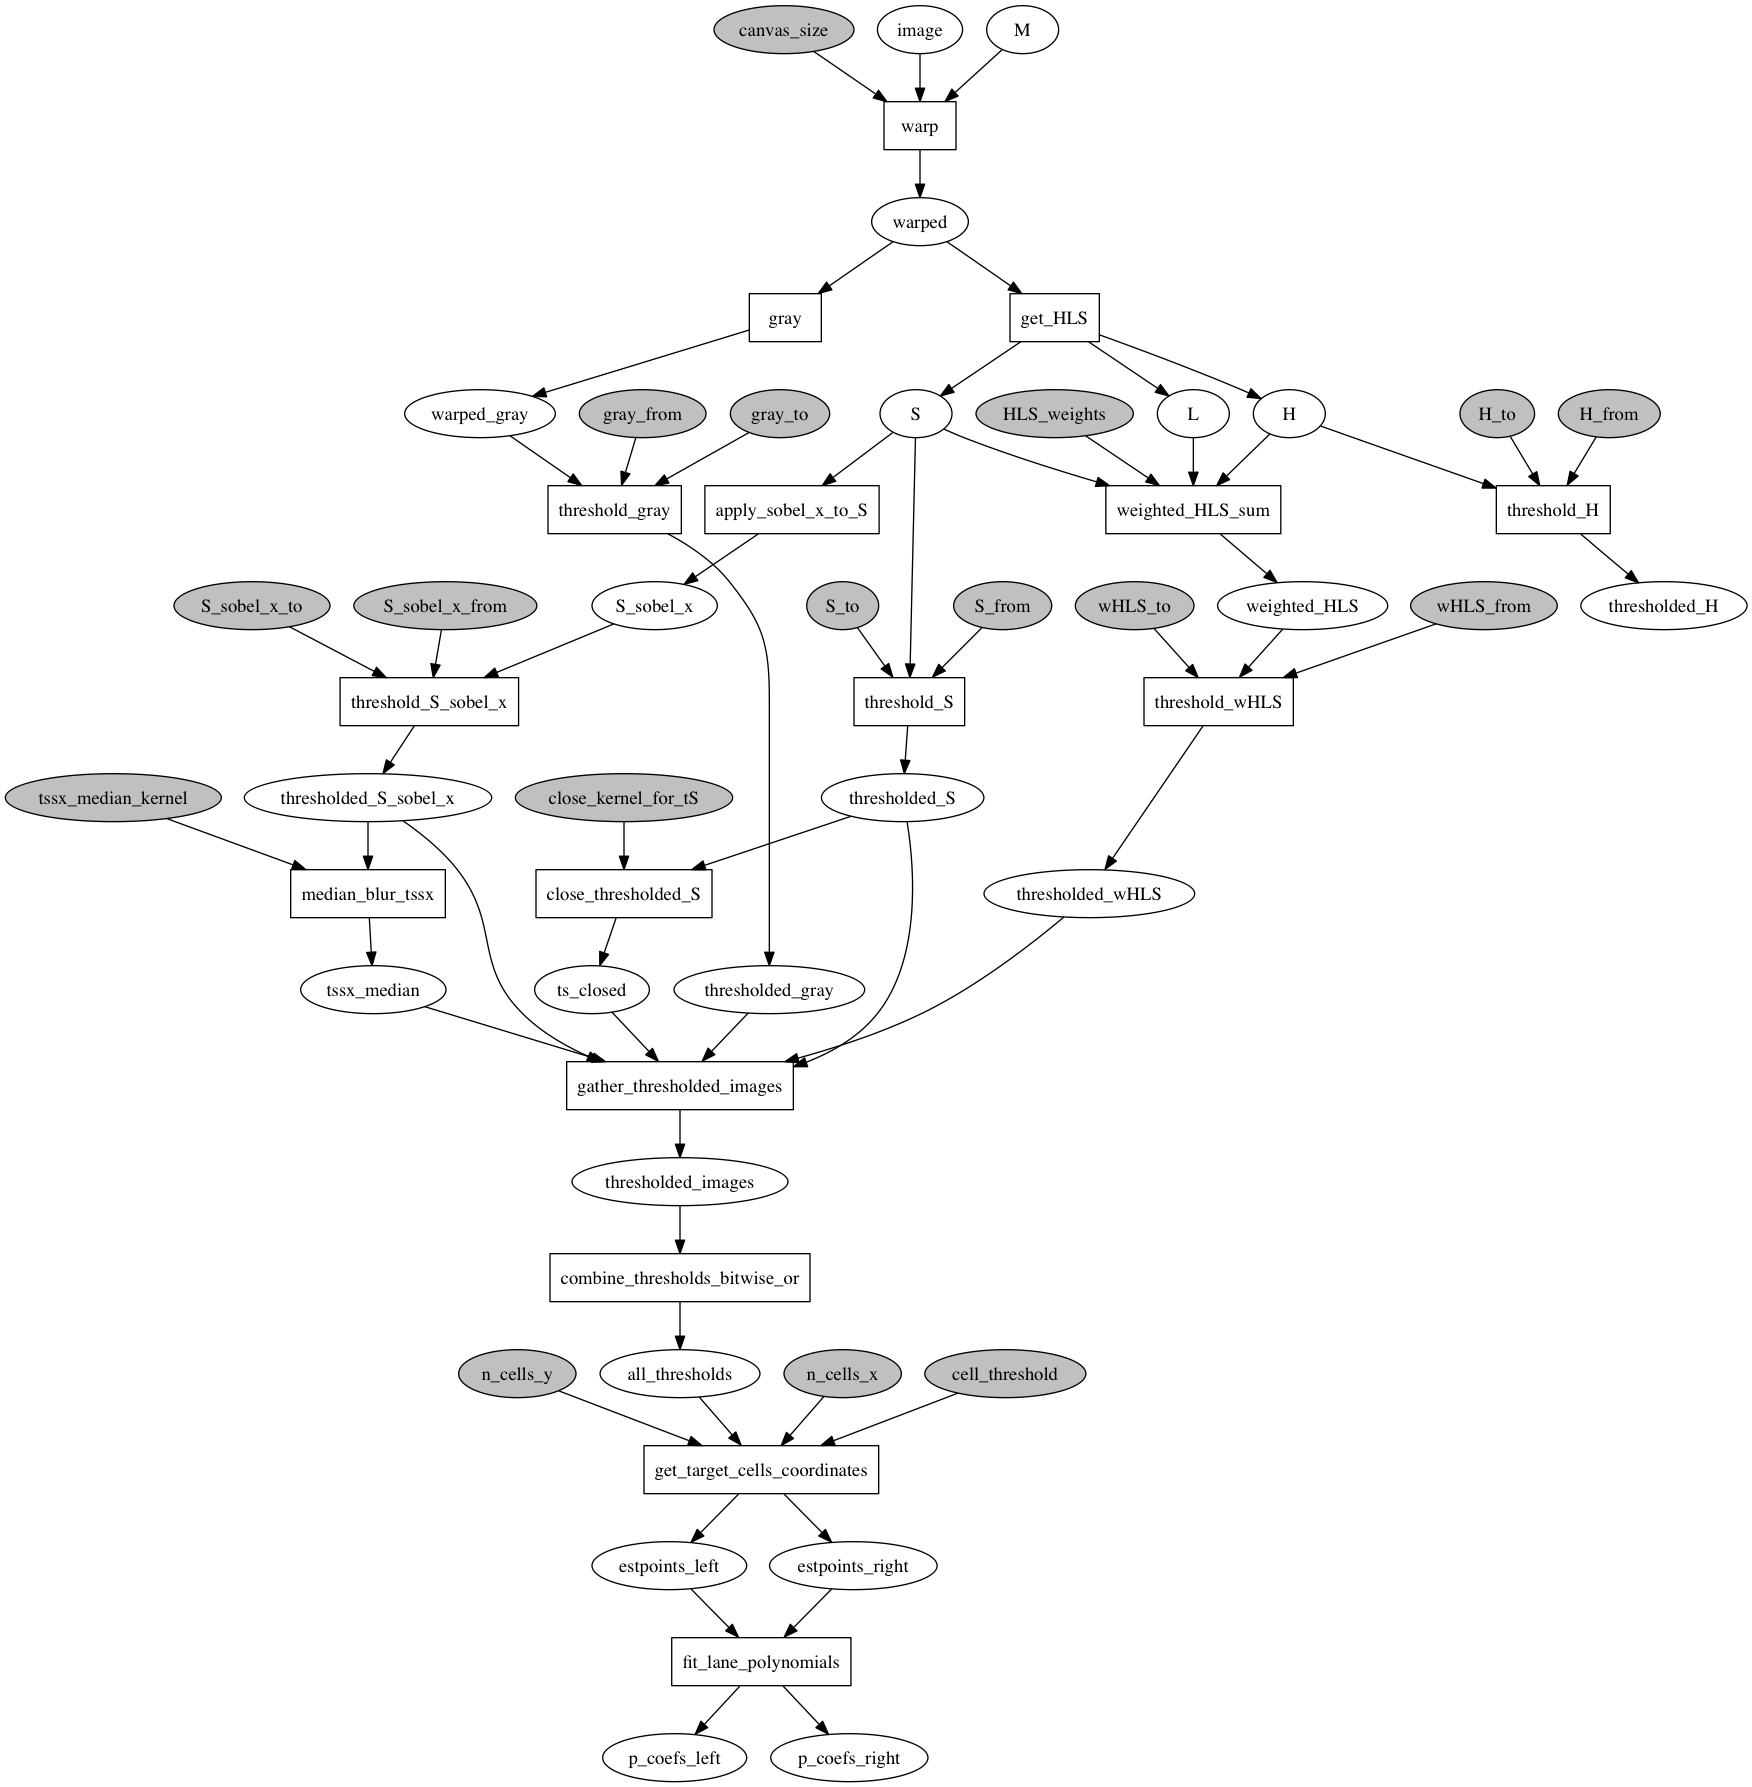
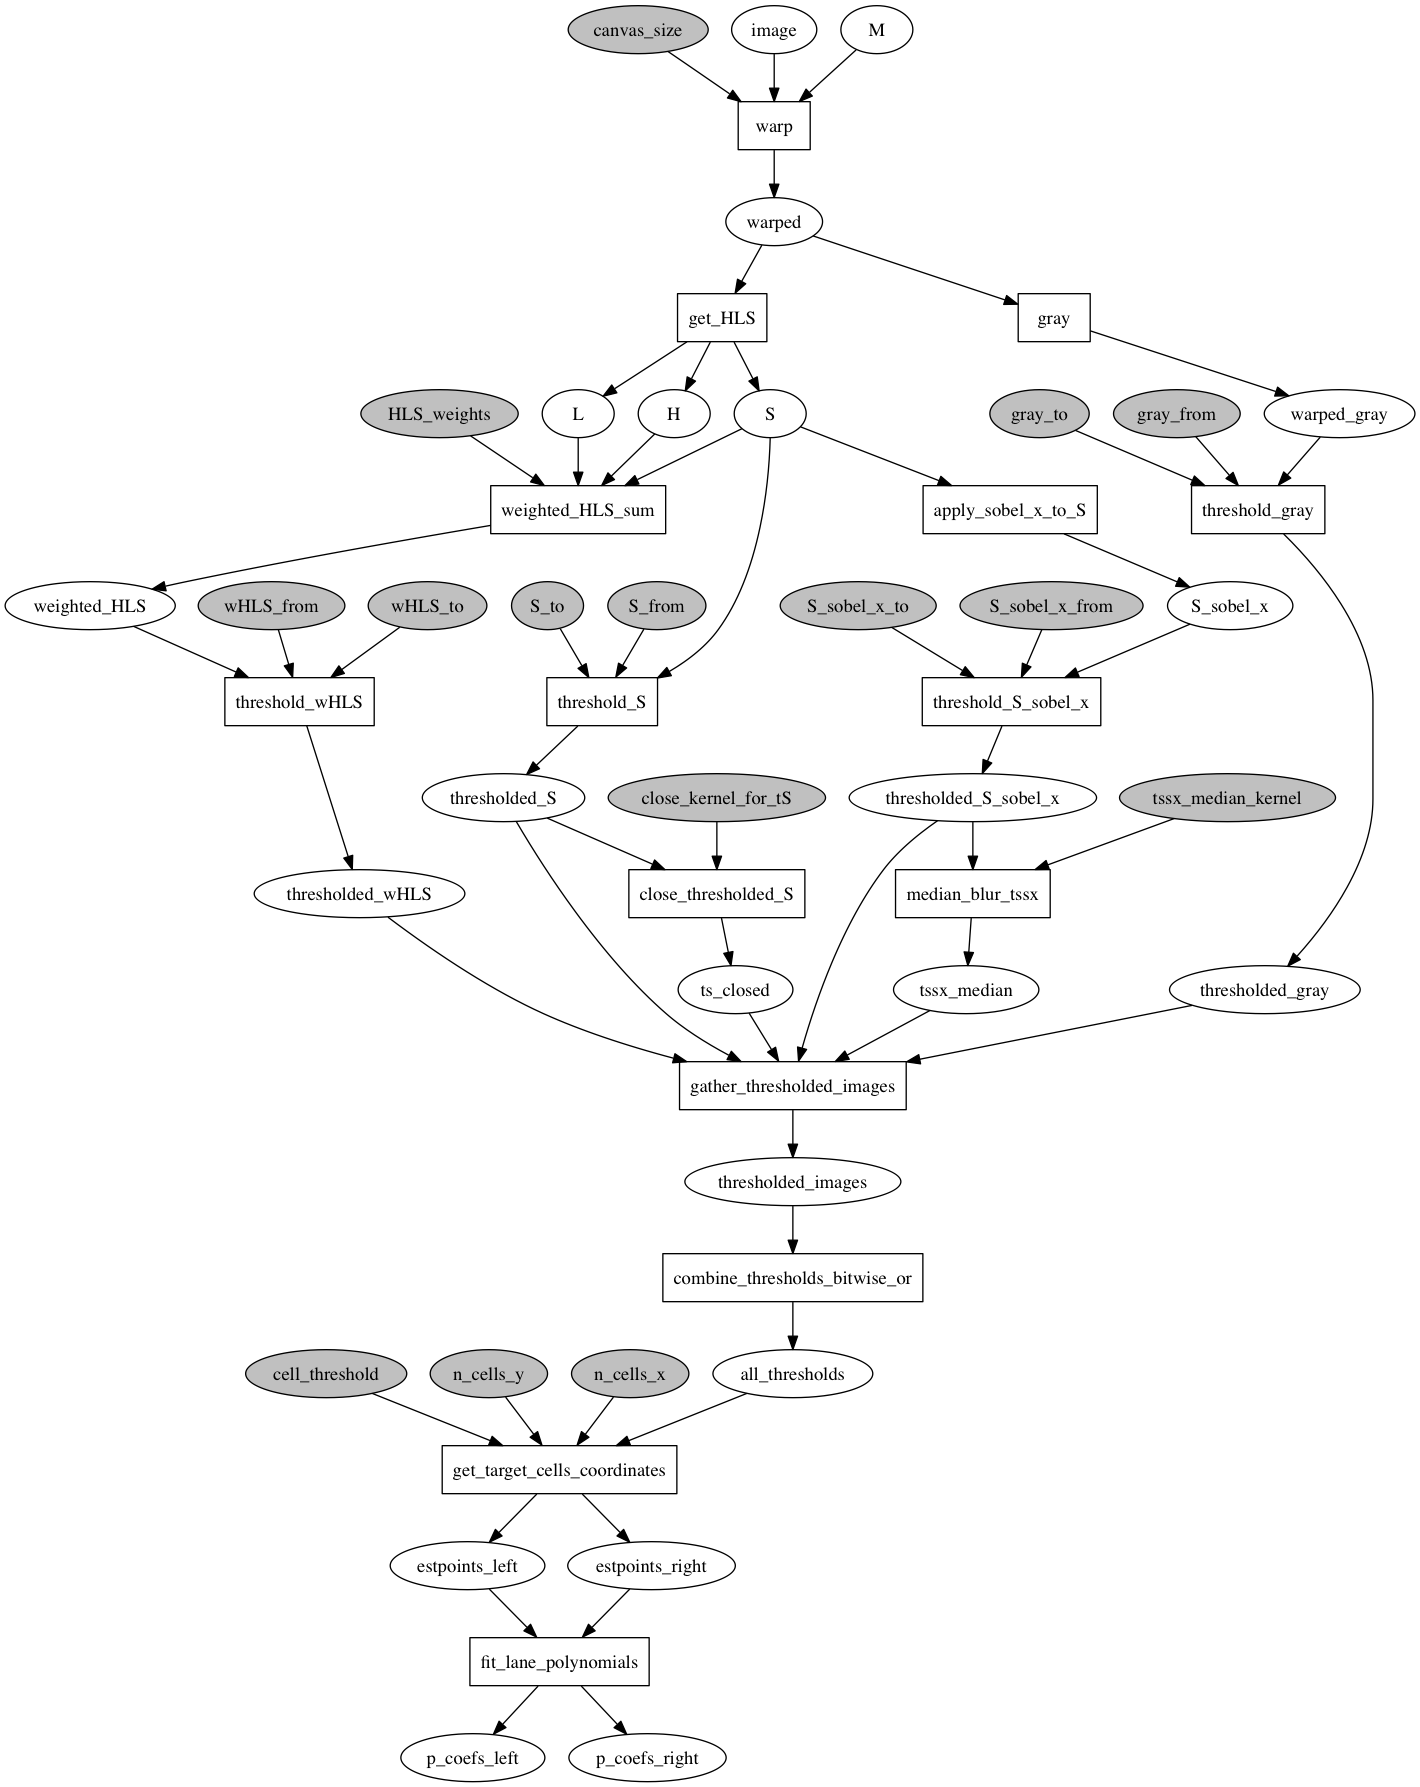
Finished the writeup and removed unused branch from the pipeline

diff --git a/newlanespipeline.py b/newlanespipeline.py
@@ -10,7 +10,6 @@ func_dict = {
     'weighted_HLS_sum': lanelines.weighted_HLS,
     'threshold_gray': lanelines.mask_threashold_range,
     'threshold_S': lanelines.mask_threashold_range,
-    'threshold_H': lanelines.mask_threashold_range,
     'threshold_wHLS': lanelines.mask_threashold_range,
     'apply_sobel_x_to_S': lanelines.scaled_sobel_x,
     'threshold_S_sobel_x': lanelines.mask_threashold_range,
@@ -30,7 +29,6 @@ func_io = {
     'weighted_HLS_sum': (('H', 'L', 'S', 'HLS_weights'), 'weighted_HLS'),
     'threshold_gray': (('warped_gray', 'gray_from', 'gray_to'), 'thresholded_gray'),
     'threshold_S': (('S', 'S_from', 'S_to'), 'thresholded_S'),
-    'threshold_H': (('H', 'H_from', 'H_to'), 'thresholded_H'),
     'threshold_wHLS': (('weighted_HLS', 'wHLS_from', 'wHLS_to'), 'thresholded_wHLS'),
     'apply_sobel_x_to_S': ('S', 'S_sobel_x'),
     'threshold_S_sobel_x': (('S_sobel_x', 'S_sobel_x_from', 'S_sobel_x_to'), 'thresholded_S_sobel_x'),
@@ -61,8 +59,6 @@ parameters = {
     'gray_to': 255,
     'S_from': 180,
     'S_to': 255,
-    'H_from': 95,
-    'H_to': 100,
     'wHLS_from': 180,
     'wHLS_to': 255,
     'S_sobel_x_from': 20,

diff --git a/WRITEUP.md b/WRITEUP.md
@@ -1,0 +1,112 @@
+# **Advanced Lane Finding**
+
+## Writeup
+
+---
+
+**Advanced Lane Finding Project**
+
+The goals / steps of this project are the following:
+
+* Compute the camera calibration matrix and distortion coefficients given a set of chessboard images.
+* Apply a distortion correction to raw images.
+* Use color transforms, gradients, etc., to create a thresholded binary image.
+* Apply a perspective transform to rectify binary image ("birds-eye view").
+* Detect lane pixels and fit to find the lane boundary.
+* Determine the curvature of the lane and vehicle position with respect to center.
+* Warp the detected lane boundaries back onto the original image.
+* Output visual display of the lane boundaries and numerical estimation of lane curvature and vehicle position.
+
+
+[//]: # (Image References)
+
+[Pipeline]: ./output_images/pipeline.png "Pipeline"
+
+[PipeInterm]: ./output_images/intermediate.jpg "Visualization of pipeline's intermediate results"
+
+---
+
+### System setup
+
+The project uses the [carnd-term1](https://github.com/udacity/CarND-Term1-Starter-Kit) conda environment with additionally installed Graphviz and nxpd. These components can be installed via:
+
+```
+conda install graphviz
+pip install graphviz pygraphviz nxpd
+```
+
+### Code overview
+
+The pipeline for lane detection was built upon the computational graph implementation from the [EPypes project](https://github.com/semeniuta/EPypes). The idea is that you create a library of Python functions for certain application-specific computations, and later declaratively combine them into a directed acyclic graph. The latter can be run once its topological sort is performed. The graph can also be visualized with Graphviz. It is bipartite: the functions are shown as rectangles, and the data tokens -- as ellipses. The shaded ellipses correspond to *frozen* tokens, i.e. source tokens with fixed values. They represent tuned parameters of a vision algorithm. The vendored code from EPypes can be found in `graph.py` and `compgraph.py` modules.
+
+The core functions used in the developed pipeline reside in the `lanelines.py` Python module.
+
+`calib.py` contains functions for camera calibration. When used as a script (`python calib.py`), performs camera calibration using the images in `camera_cal` and saves the results as `serialize/{camera_matrix.npy, dist_coefs.npy}`.
+
+The computational graph for the lane detection pipeline is defined in `newlanespipeline.py`.
+
+The computational graph for simplified lane detection from the [Project 1](https://github.com/semeniuta/CarND-LaneLines-P1) is used in this project (as `straightlanespipeline.py`) for aiding definition of the road plane region for birds-eye warping. Functions that perform the latter task reside in `roadplane.py`.
+
+Computational primitives for frame-to-frame smoothing can be found in `smooth.py`.
+
+All the resulting media files are generated by the `genmedia.py` script.
+
+## Undistortion
+
+The results of undistortion and warping of a chessboard image are visualized below:
+
+<img src="./camera_cal/calibration10.jpg" width="425"/> <img src="./output_images/cb_warped.jpg" width="425"/>
+
+## Computer vision pipeline
+
+The computational graph, defined in `newlanespipeline.py` has the following structure:
+
+![alt text][Pipeline]
+
+An undistorted RGB image is warped to the birds-eye perspective, with the supplied transformation matrix `M`. The warped image undergoes a number of processing strategies to obtain several binary images highlighting lane-lines pixels:
+
+* thresholding of the grayscale image
+* color transformation to the HLS space, followed by:
+    * "two-ends" thresholding of the S channel, followed by the [closing](https://docs.opencv.org/3.4.1/d9/d61/tutorial_py_morphological_ops.html) operation
+    * applying Sobel operator to the S channel in the `x` direction, followed by "two-ends" thresholding and median blur
+    * weighted sum of H, L, and S channels (with factors [0, 0.4, 1.], thus corresponding to "enriching" the S channel with a bit of L), followed by "two-ends" thresholding.
+
+The results of the above processing strategies are further combined in a single binary image (`all_thresholds`) by bitwise-OR operator.
+
+Two sets of pixel points (for the left and the right lane-lines respectively) are identified by the following technique:
+
+* An image is divided into the left and right half
+* Each half is divided in equally-sized cells (small rectangular regions)
+* In every cell, the sum of pixel intensities is computed
+* For every cell row in a half of the original image, the one with maximal intensities sum is chosen as a target cell
+* Center coordinates of the target cells (for both the left and the right half) are used for polynomial estimation
+
+The following figure shows the results of vision pipeline processing of the test images (`all_thresholds` and the estimated polynomials):
+
+![alt text][PipeInterm]
+
+Figures below demonstrate the final rendering of the detected lane (note that the resulting image is in addition undistorted):
+
+<img src="./test_images/test5.jpg" width="425"/> <img src="./output_images/test5.jpg" width="425"/>
+
+The result of video processing is stored in `output_images/project_video.mp4`.
+
+### Smoothing
+
+Since subsequent frames in a video are correlated, it is beneficial to exploit measurements from previous frames to smooth estimates and reject outliers from the current frame.
+
+To process the project video, two smoothing operations are performed:
+
+* Polynomial coefficients (`p_coefs_left` and `p_coefs_right`) are checked by how much they differ with the previous frame's estimation. If the absolute difference of any of the coefficients is above the threshold, the previous values are used. Otherwise, the coefficients' values are averaged with the previous ones.
+
+* Curvature is smoothed in a similar way, but with averaging over a window of previous measurements.
+
+### Shortcomings and possible improvements
+
+Even though the proposed algorithm possesses better robustness comparing to single threshold solutions, it remains sensitive to color variations in the stream of images.
+
+The cell-based algorithm for detecting points further used for polynomial estimation can be improved. Specifically, in its current form, if several subsequent cells in a row have the same intensity sum value, it chooses the left-most cell. It should instead aim at the middle of such sequence.
+
+More precise calibration of pixel-to-meter ratios should be done to obtain realistic curvature measurements.
+
+Curvature is in general very sensitive to the values of polynomial coefficients. A more complex smoothing strategy may be beneficial to estimating curvature. Another possibility is to use discrete sets approach, where high values of curvature would be characterized by a distinct discrete class of "straight road", with additional classes for different combinations of road turning direction and curvature ranges.

diff --git a/README.md b/README.md
@@ -1,7 +1,7 @@
 ## Advanced Lane Finding
 [![Udacity - Self-Driving Car NanoDegree](https://s3.amazonaws.com/udacity-sdc/github/shield-carnd.svg)](http://www.udacity.com/drive)
 
-Advanced lane detection project for the Udacity Self-Driving Car Nanodegree by Oleksandr Semeniuta.
+Advanced lane detection project for the Udacity Self-Driving Car Nanodegree by [Oleksandr Semeniuta](http://alexsm.com/).
 
 <img src="./output_images/test5.jpg" width="425"/> <img src="./output_images/test6.jpg" width="425"/>
 
